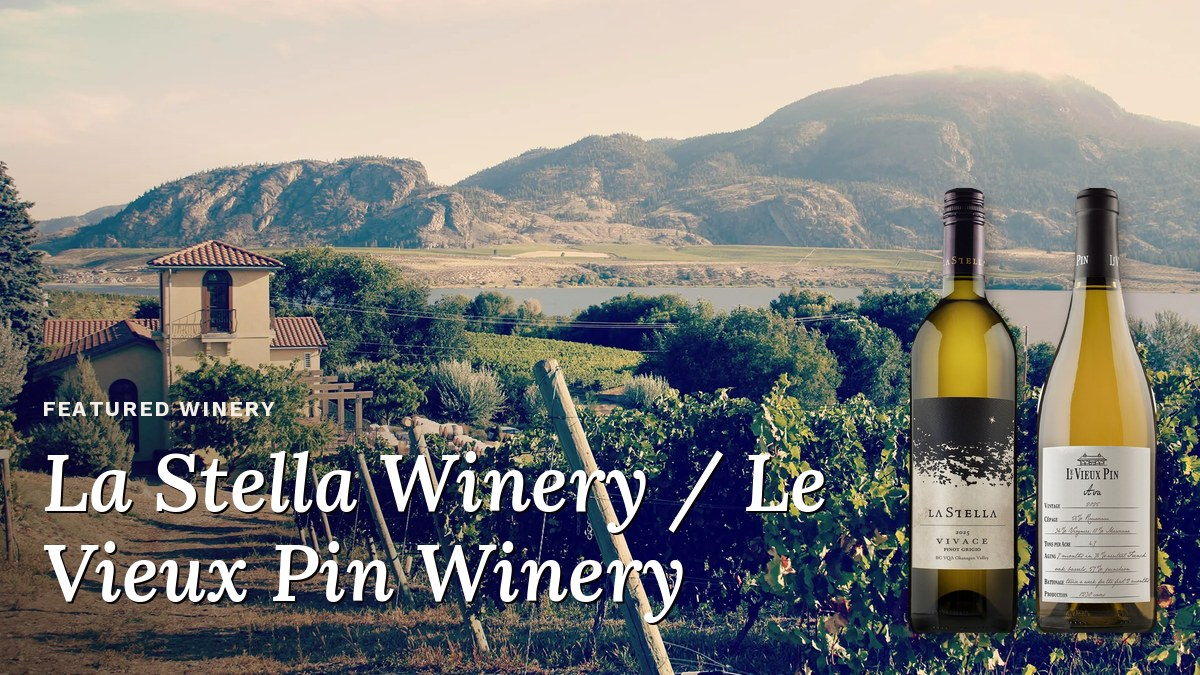
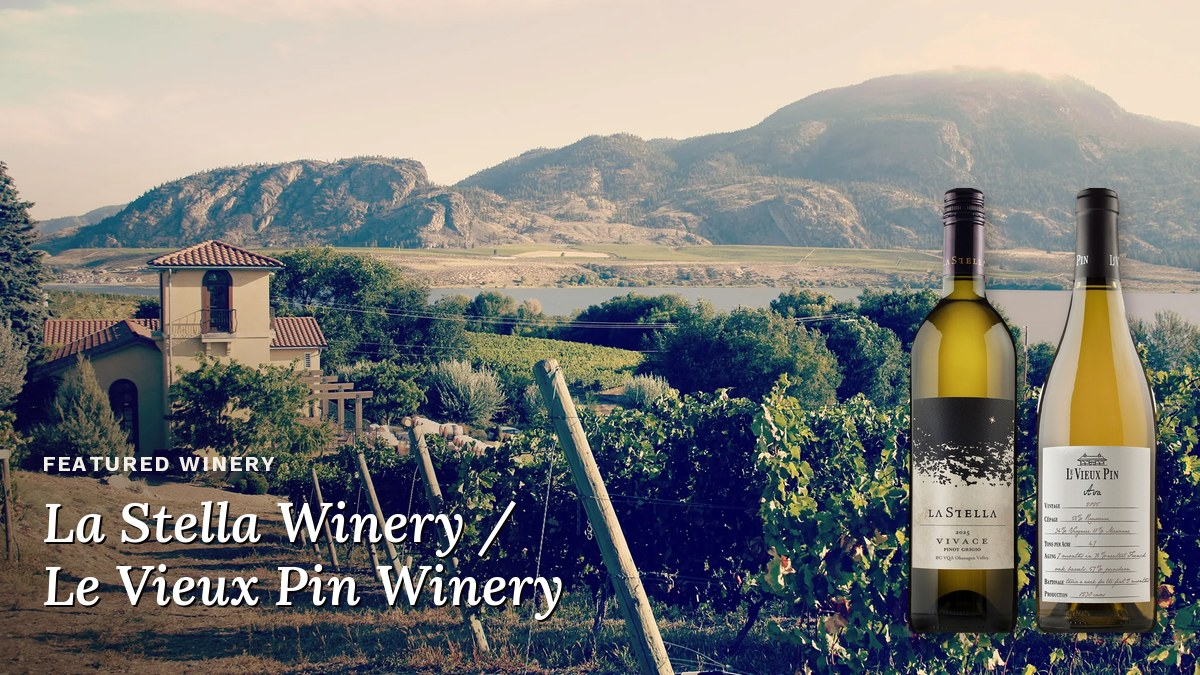
Hero title identical on all 10 packs (broken at the slash, one fixed width); Dec 2026 heroes rebuilt
Claude-Session: https://claude.ai/code/session_01FDqgfaRLC9JErndBH8WTns

Changed region(s): [[0.0308, 0.6533, 0.5858, 0.9333], [0.5858, 0.6533, 0.7092, 0.7778], [0.0308, 0.5911, 0.2467, 0.6222]]

diff --git a/scripts/composite_hero.py b/scripts/composite_hero.py
@@ -28,6 +28,7 @@ from pathlib import Path
 from PIL import Image, ImageChops, ImageDraw, ImageEnhance, ImageFilter, ImageFont, ImageOps
 
 FONT_DIR = Path(__file__).parent / "fonts"
+TITLE_RIGHT_FRAC = 0.485  # right edge of the title block, as a fraction of the canvas width (left edge of a six-bottle cluster, less its margin)
 NAME_FONT_PATH = FONT_DIR / "Lora-Italic.ttf"
 NAME_VF_PATH = FONT_DIR / "Lora-Italic-VF.ttf"  # variable Lora Italic (OFL), used at SemiBold for the cluster hero
 
@@ -262,7 +263,13 @@ def add_winery_name(canvas: Image.Image, winery_name: str, eyebrow: str = "FEATU
     eyebrow_font = ImageFont.truetype(str(EYEBROW_FONT_PATH), eyebrow_size)
     name_font = load_name_font(name_size, bold)
 
-    if bold and winery_name.endswith(" Estate Winery"):  # cluster hero: the same two lines for every pack
+    if bold and " / " in winery_name:  # two wineries: one per line, broken at the slash, the same for every pack
+        first, second = (part.strip() for part in winery_name.split(" / ", 1))
+        lines = [first + " /", second]
+        while max_width and name_size > 30 and max(draw.textlength(ln, font=name_font) for ln in lines) > max_width:
+            name_size -= 2   # the longer line always fits beside the bottles, never runs under them or off the frame
+            name_font = load_name_font(name_size, bold)
+    elif bold and winery_name.endswith(" Estate Winery"):  # cluster hero: the same two lines for every pack
         lines = [winery_name[:-len(" Estate Winery")], "Estate Winery"]
     else:
         lines = _wrap_name(draw, winery_name, name_font, max_width) if max_width else [winery_name]
@@ -365,8 +372,12 @@ def build_hero(background_path: Path, bottle_paths: list[Path], output_path: Pat
         left = place_cluster(canvas, bottles)
         if winery_name:
             name_x = int(CANVAS_W * name_x_frac) if name_x_frac is not None else None
+            x0 = name_x or int(CANVAS_W * 0.035)
+            # The title's width is set by the six-bottle cluster (the 6- and 12-Bottle heroes), the narrowest space beside the
+            # bottles, and used for every pack: a 2-Bottle hero has more room but must read as one set with the 12-Bottle.
+            title_right = int(CANVAS_W * TITLE_RIGHT_FRAC)
             add_winery_name(canvas, winery_name, eyebrow, x0=name_x, bold=True,
-                            max_width=left - (name_x or int(CANVAS_W * 0.035)) - int(CANVAS_W * 0.035))
+                            max_width=min(title_right, left - int(CANVAS_W * 0.035)) - x0)
         output_path.parent.mkdir(parents=True, exist_ok=True)
         canvas.convert("RGB").save(output_path, "JPEG", quality=88)
         return used, skipped
